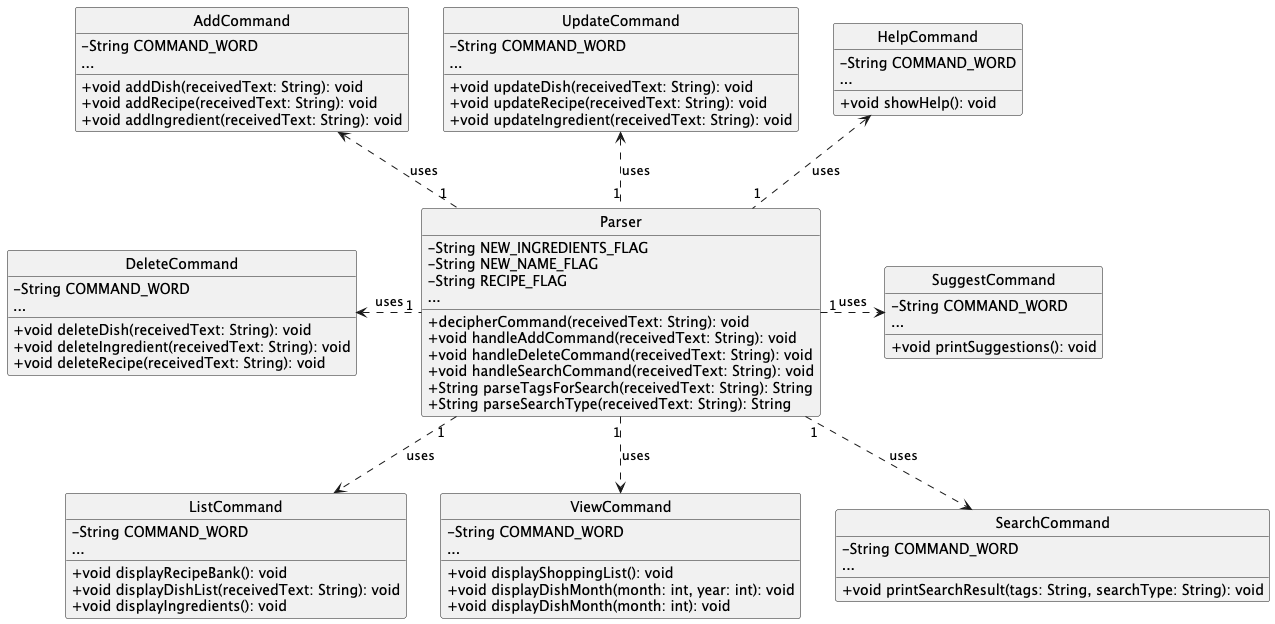
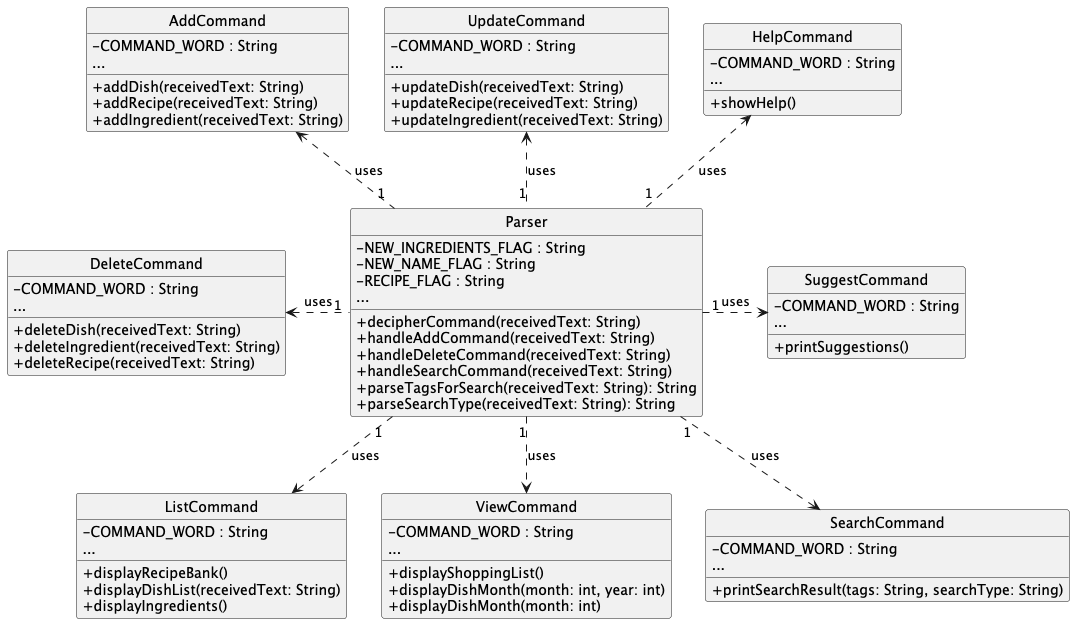
Updated DG diagrams and PPP

diff --git a/src/main/java/seedu/cookingaids/exception/InvalidInputException.java b/src/main/java/seedu/cookingaids/exception/InvalidInputException.java
@@ -1,8 +1,5 @@
 package seedu.cookingaids.exception;
 
 public class InvalidInputException extends Exception{
-    public InvalidInputException(String s) {
-        super(s);
-    }
     public InvalidInputException() {}
 }

diff --git a/docs/team/jxromy.md b/docs/team/jxromy.md
@@ -78,6 +78,7 @@ I developed comprehensive JUnit tests to ensure the correctness and robustness o
     - **Class Diagram** for the Parser-Command relationship.
     - **Sequence Diagram** illustrating the flow from user input to command execution.
 - Documented the command execution lifecycle and described how input strings are tokenized and passed through the system.
+- Validated rest of the Developer Guide and helped the team correct non-standard notations in class diagrams.
 
 ### **Contributions to Team-Based Tasks**
 
@@ -87,12 +88,16 @@ I developed comprehensive JUnit tests to ensure the correctness and robustness o
 
 ### **Review / Mentoring Contributions**
 
-- Reviewed 10+ pull requests, offering suggestions on:
-    - Improving code modularity and adherence to coding standards.
-    - Simplifying conditional logic in command execution.
-    - Adding inline documentation for public methods.
+- Reviewed issues and pull requests, offering suggestions to teammates to fix bugs spotted:
+    - Brainstormed ideas to overcome challenges that teammates are facing in their implementation.
+    - Provided tips for following CS2113 coding standards in code and documentation.
+    - Improved code modularity and adherence to coding standards.
+    - Simplified conditional logic in command execution.
+    - Added inline documentation for public methods.
 
-{to insert screenshots}
+![Contribution_3](images/jeromy_other_contributions_3.png)
+![Contribution_4](images/jeromy_other_contributions_4.png)
+![Contribution_5](images/jeromy_other_contributions_5.png)
 
 ### **Contributions Beyond the Project Team**
 

diff --git a/docs/DeveloperGuide.md b/docs/DeveloperGuide.md
@@ -107,7 +107,7 @@ file.
 
 The following is a class diagram of one of the classes `IngredientStorage`.
 
-![img.png](images/IngredientStorage.png)
+![img.png](images/ingredient_storage.png)
 
 <div style="page-break-after: always;"></div>
 
@@ -205,7 +205,7 @@ The design choice of the `Parser` class emphasizes modularity and maintainabilit
 
 The following is an overview of the `Parser` class and its interactions:
 
-![Parser.png](images/Parser.png)
+![parser.png](images/parser.png)
 
 <div style="page-break-after: always;"></div>
 
